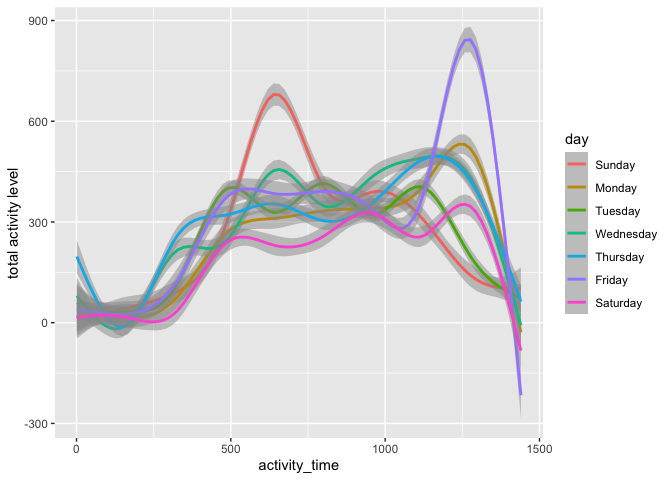
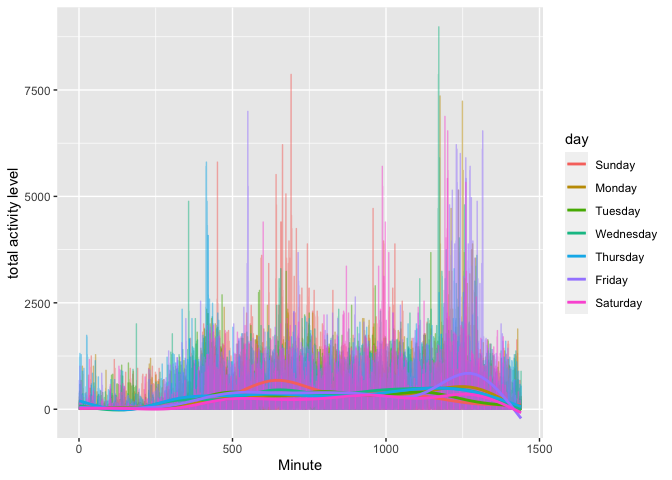
finished

diff --git a/P8105_HW3_zc2555.md b/P8105_HW3_zc2555.md
@@ -349,7 +349,7 @@ on weekends, the activity level usually drops
 
 ``` r
 accel_each_day = accel_data %>%
-  select(week, day, activity_1:activity_1440)%>%
+  select(week, day, activity_1:activity_1440, day_id)%>%
  pivot_longer(
     activity_1:activity_1440,
     names_to = "activity_time",
@@ -361,9 +361,11 @@ accel_each_day = accel_data %>%
     day = factor(day, levels = c('Sunday', 'Monday', 'Tuesday', 'Wednesday', 'Thursday','Friday', 'Saturday'))) 
 
 accel_each_day  %>%
-  ggplot(aes(x = activity_time, y = activity, color = day)) +
-  geom_smooth(alpha = 0.5) +
-  ylab ("total activity level")
+  ggplot(aes(x = activity_time, y = activity, color = day, se=FALSE)) +
+  geom_line (alpha = 0.5) +
+  geom_smooth(aes(group=day), se = FALSE)+
+  ylab ("total activity level")+
+  xlab("Minute")
 ```
 
     ## `geom_smooth()` using method = 'gam' and formula 'y ~ s(x, bs = "cs")'
